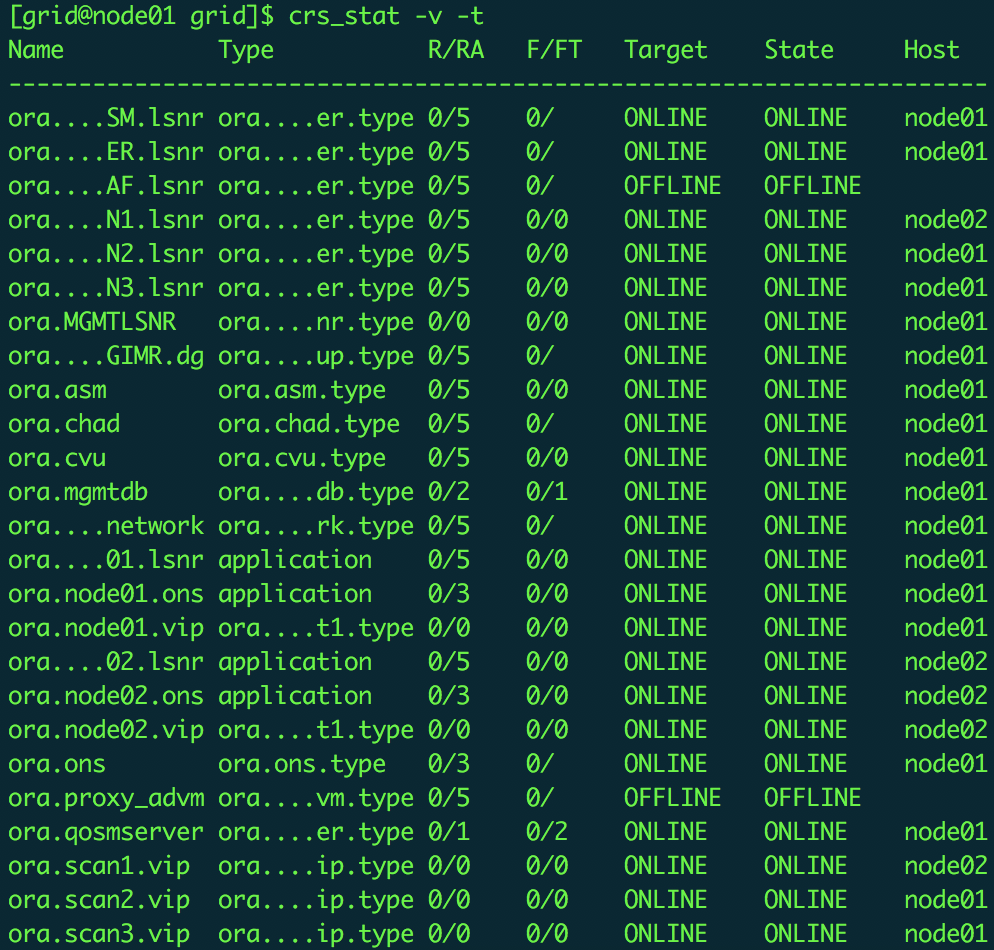
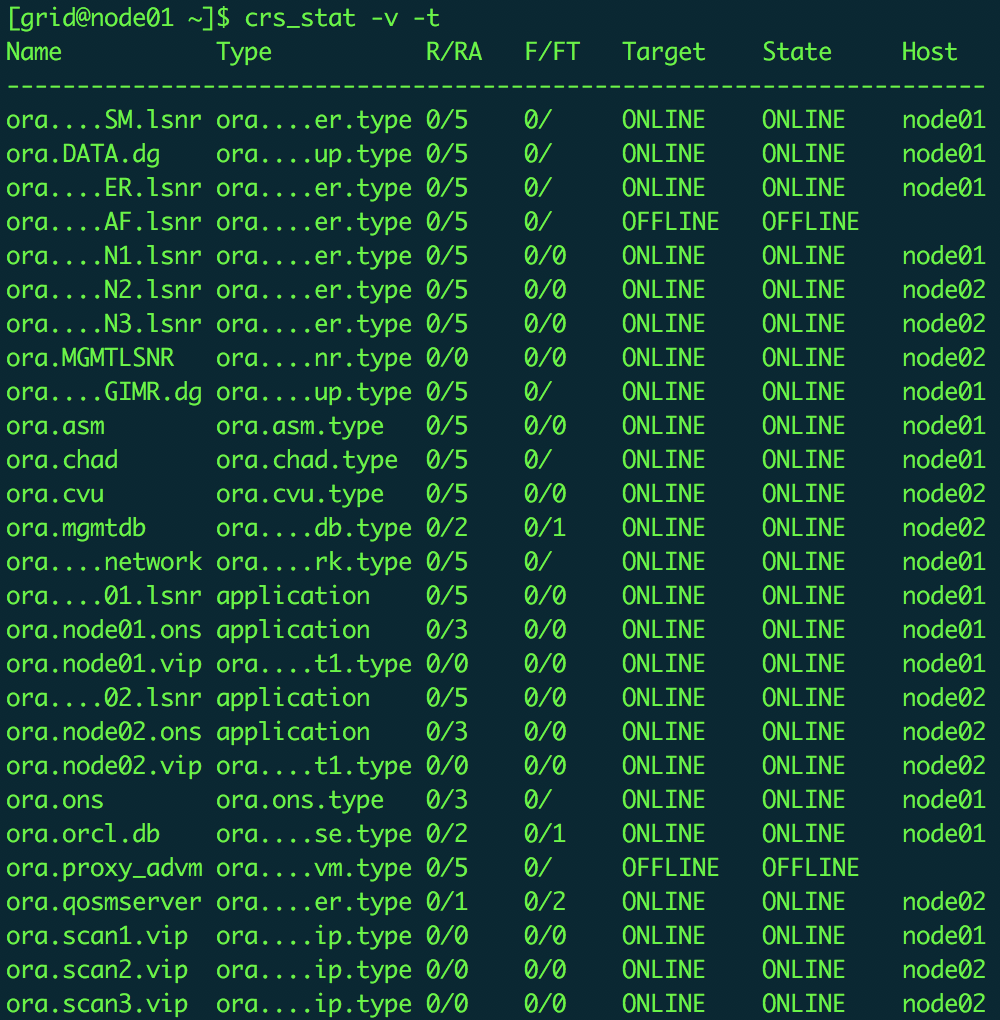
基本完成Oracle RAC 12cR2安装手册

Changed region(s): [[0.0, 0.0, 0.998, 1.0], [0.9044, 0.8547, 0.998, 1.0]]

diff --git a/source/_posts/Oracle-RAC-12cR2安装手册-5-数据库实例的创建.md b/source/_posts/Oracle-RAC-12cR2安装手册-5-数据库实例的创建.md
@@ -1,0 +1,79 @@
+---
+title: Oracle RAC 12cR2安装手册(5)--数据库实例的创建
+date: 2017-07-11 23:49:34
+author: Jayce
+tags:
+  - Tech
+  - Installation
+categories:
+  - Oracle
+  - RAC
+---
+在node01上执行
+```
+dbca
+```
+{% asset_img database-instance-creation-0.png database-instance-creation %}
+创建一个数据库→下一步👆🏻
+{% asset_img database-instance-creation-1.png database-instance-creation %}
+高级配置→下一步👆🏻
+{% asset_img database-instance-creation-2.png database-instance-creation %}
+选择自定义数据库→下一步👆🏻
+{% asset_img database-instance-creation-3.png database-instance-creation %}
+选择所有节点→下一步👆🏻
+{% asset_img database-instance-creation-4.png database-instance-creation %}
+设置全局数据库名和SID前缀，选择创建空白容器数据库→下一步👆🏻
+> 注：
+>   此处的SID前缀需要与环境变量里的ORACLE_SID对应：
+    例如，SID前缀设置orcl，ORACLE_SID需要设置为orcl1和orcl2。
+
+{% asset_img database-instance-creation-5.png database-instance-creation %}
+选择ASM存储类型并选择DATA磁盘组→下一步👆🏻
+{% asset_img database-instance-creation-6.png database-instance-creation %}
+启用快速闪回去，并选择DATA磁盘组，大小设置为5120M→下一步👆🏻
+{% asset_img database-instance-creation-6-1.png database-instance-creation %}
+确定继续👆🏻
+{% asset_img database-instance-creation-7.png database-instance-creation %}
+默认→下一步👆🏻
+{% asset_img database-instance-creation-8.png database-instance-creation %}
+选择自动共享内存管理，并设置Memory Target约为物理内存的80%👆🏻
+{% asset_img database-instance-creation-9.png database-instance-creation %}
+块大小设置为32768B，进程数设置为1500👆🏻
+{% asset_img database-instance-creation-10.png database-instance-creation %}
+字符集选择AL32UTF8👆🏻
+{% asset_img database-instance-creation-11.png database-instance-creation %}
+连接模式选择专用服务器模式→下一步👆🏻
+{% asset_img database-instance-creation-12.png database-instance-creation %}
+确认继续→下一步👆🏻
+{% asset_img database-instance-creation-13.png database-instance-creation %}
+不配置EM→下一步👆🏻
+{% asset_img database-instance-creation-14.png database-instance-creation %}
+使用统一密码→下一步👆🏻
+{% asset_img database-instance-creation-15.png database-instance-creation %}
+创建数据库→下一步👆🏻
+{% asset_img database-instance-creation-16.png database-instance-creation %}
+再次确认继续👆🏻
+{% asset_img database-instance-creation-17.png database-instance-creation %}
+执行先决条件检查👆🏻
+{% asset_img database-instance-creation-18.png database-instance-creation %}
+忽略全部→下一步👆🏻
+{% asset_img database-instance-creation-19.png database-instance-creation %}
+确认继续👆🏻
+{% asset_img database-instance-creation-20.png database-instance-creation %}
+完成👆🏻
+{% asset_img database-instance-creation-21.png database-instance-creation %}
+创建进行中👆🏻
+{% asset_img database-instance-creation-22.png database-instance-creation %}
+创建完成→关闭👆🏻
+分别在node01和node02上执行`lsnrctl status`查看实例运行状态👇🏻
+{% asset_img database-instance-creation-23.png database-instance-creation %}
+node01状态正常👆🏻
+{% asset_img database-instance-creation-24.png database-instance-creation %}
+node02状态正常👆🏻
+执行`sqlplus / as sysdba`登录数据库👇🏻
+{% asset_img database-instance-creation-25.png database-instance-creation %}
+登录成功👆🏻
+执行`show pdbs`查看PDB状态👇🏻
+{% asset_img database-instance-creation-26.png database-instance-creation %}
+可以看到一个种子PDB👆🏻
+至此，完成了数据库实例的创建。

diff --git a/source/_posts/Oracle-RAC-12cR2安装手册-3-网格基础设施的安装.md b/source/_posts/Oracle-RAC-12cR2安装手册-3-网格基础设施的安装.md
@@ -97,10 +97,27 @@ cd /u01/app/12.1.0/grid/
 确认继续👆🏻
 {% asset_img grid-infrastructure-installation-26.png grid-infrastructure-installation %}
 关闭👆🏻
-### 检查确认
-使用grid用户在node01和node02上执行
-`crs_stat -v -t`
+使用grid用户分别在node01和node02上执行`crs_stat -v -t`查看服务运行状态👇🏻
 {% asset_img grid-infrastructure-check-0.png grid-infrastructure-check %}
-部分服务处于OFFLINE状态，可以忽略👆🏻
+node01👆🏻
+{% asset_img grid-infrastructure-check-1.png grid-infrastructure-check %}
+node02👆🏻
+> 注：
+    部分服务处于OFFLINE状态，可以忽略。
+
+### 创建其他磁盘组
+使用grid用户登录node01或切换至grid用户执行`asmca`
+{% asset_img asm-disk-group-creation-0.png asm-disk-group-creation %}
+欢迎界面👆🏻
+{% asset_img asm-disk-group-creation-1.png asm-disk-group-creation %}
+选择磁盘组→创建👆🏻
+{% asset_img asm-disk-group-creation-2.png asm-disk-group-creation %}
+创建DATA磁盘，选择外部冗余，选择DATA磁盘→OK👆🏻
+{% asset_img asm-disk-group-creation-3.png asm-disk-group-creation %}
+创建中👆🏻
+{% asset_img asm-disk-group-creation-4.png asm-disk-group-creation %}
+创建完成→退出👆🏻
+{% asset_img asm-disk-group-creation-5.png asm-disk-group-creation %}
+确认退出👆🏻
 至此，完成了网格基础设施的安装。
 下一篇[Oracle RAC 12cR2安装手册(4)--数据库软件的安装](../../../07/07/Oracle-RAC-12cR2安装手册-4-数据库软件的安装/)

diff --git a/source/_posts/Oracle-RAC-12cR2安装手册-2-环境的准备.md b/source/_posts/Oracle-RAC-12cR2安装手册-2-环境的准备.md
@@ -134,7 +134,7 @@ export CLASSPATH=$ORACLE_HOME/JRE:$ORACLE_HOME/jlib:$ORACLE_HOME/rdbms/jlib
 export LC_ALL=en_US.UTF-8
 ```
 ##### 配置oracle的环境变量
-node01和node02上分别执行
+node01上执行
 编辑/home/oracle/.bash_profile文件
 `vi /home/oracle/.bash_profile`
 添加
@@ -142,6 +142,22 @@ node01和node02上分别执行
 export TMP=/tmp
 export ORACLE_BASE=/u01/app/oracle
 export ORACLE_HOME=$ORACLE_BASE/product/12.2.0/dbhome_1
+export ORACLE_SID=orcl_1
+export PATH=$ORACLE_HOME/bin:/usr/sbin:$ORACLE_HOME/OPatch:$PATH
+export LD_LIBRARY_PATH=$ORACLE_HOME/lib:/lib:/usr/lib
+export CLASSPATH=$ORACLE_HOME/JRE:$ORACLE_HOME/jlib:$ORACLE_HOME/rdbms/jlib
+export NLS_LANG=AMERICAN_AMERICA.UTF8
+export LC_ALL=en_US.UTF-8
+```
+node02上执行
+编辑/home/oracle/.bash_profile文件
+`vi /home/oracle/.bash_profile`
+添加
+```
+export TMP=/tmp
+export ORACLE_BASE=/u01/app/oracle
+export ORACLE_HOME=$ORACLE_BASE/product/12.2.0/dbhome_1
+export ORACLE_SID=orcl_2
 export PATH=$ORACLE_HOME/bin:/usr/sbin:$ORACLE_HOME/OPatch:$PATH
 export LD_LIBRARY_PATH=$ORACLE_HOME/lib:/lib:/usr/lib
 export CLASSPATH=$ORACLE_HOME/JRE:$ORACLE_HOME/jlib:$ORACLE_HOME/rdbms/jlib

diff --git a/source/_posts/Oracle-RAC-12cR2安装手册.md b/source/_posts/Oracle-RAC-12cR2安装手册.md
@@ -18,4 +18,4 @@ date: 2017-06-07 23:01:00
 - [环境的准备](../../29/Oracle-RAC-12cR2安装手册-2-环境的准备/)
 - [网格基础设施的安装](../../../07/05/Oracle-RAC-12cR2安装手册-3-网格基础设施的安装/)
 - [数据库软件的安装](../../../07/07/Oracle-RAC-12cR2安装手册-4-数据库软件的安装/)
-- 数据库实例的创建(Comming soon...)
+- [数据库实例的创建](../../../07/11/Oracle-RAC-12cR2安装手册-5-数据库实例的创建/)

diff --git a/source/_posts/Oracle-RAC-12cR2安装手册-4-数据库软件的安装.md b/source/_posts/Oracle-RAC-12cR2安装手册-4-数据库软件的安装.md
@@ -51,3 +51,4 @@ OK👆🏻
 {% asset_img database-software-installation-17.png database-software-installation %}
 关闭👆🏻
 至此，完成了数据库软件的安装。
+下一篇[Oracle RAC 12cR2安装手册(5)--数据库实例的创建](../../../07/11/Oracle-RAC-12cR2安装手册-5-数据库实例的创建/)
